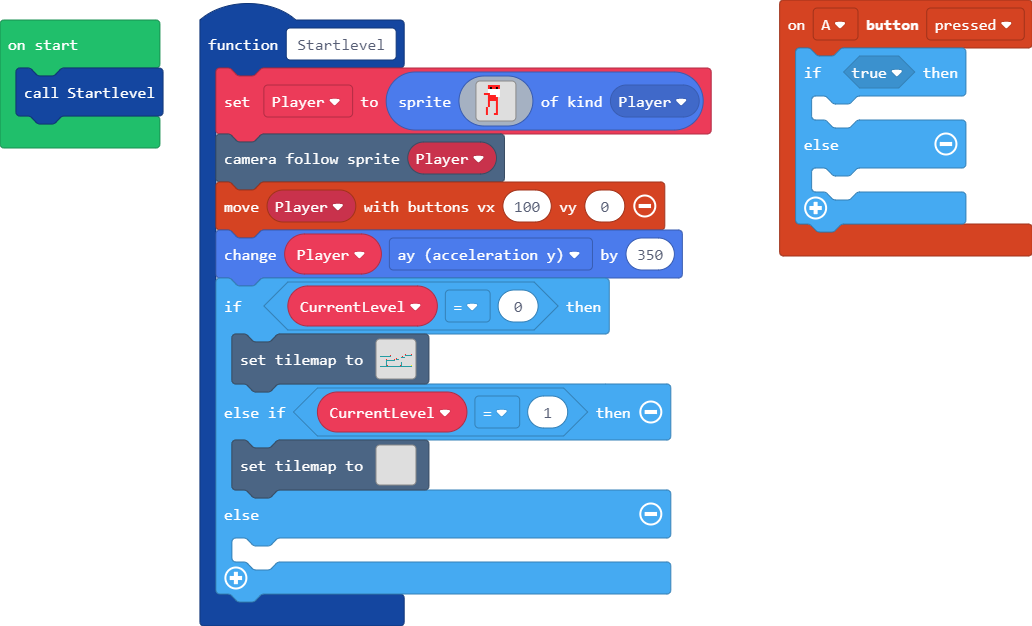
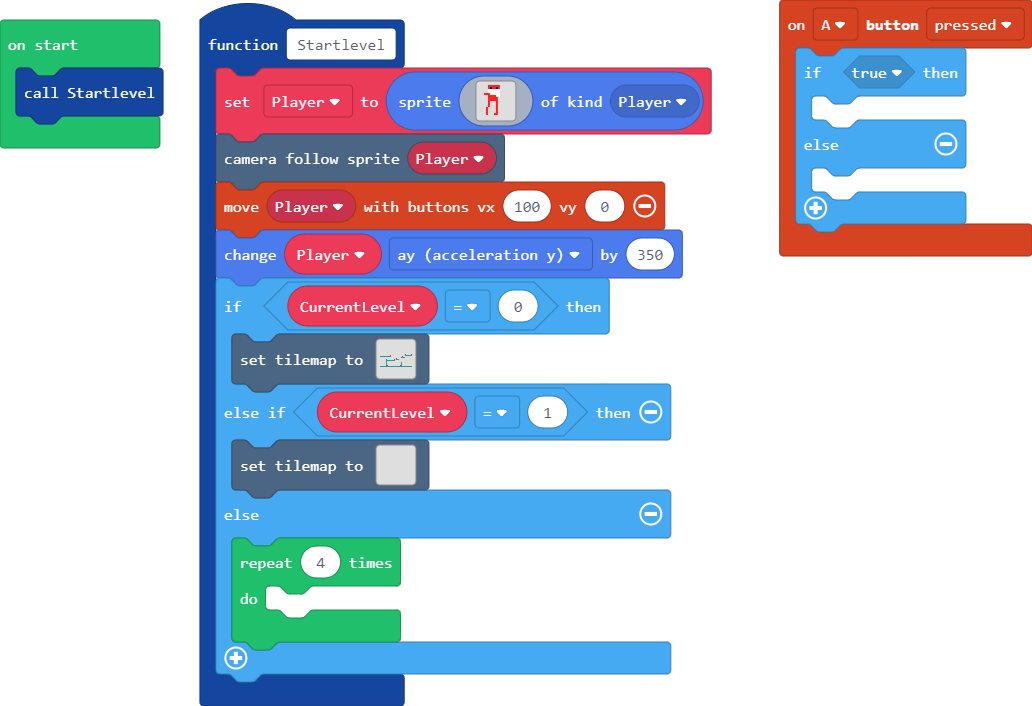
Update main.blocks, main.ts

diff --git a/main.ts b/main.ts
@@ -174,7 +174,9 @@ function Startlevel () {
             TileScale.Sixteen
         ))
     } else {
-    	
+        for (let index = 0; index < 4; index++) {
+        	
+        }
     }
 }
 let Player: Sprite = null
